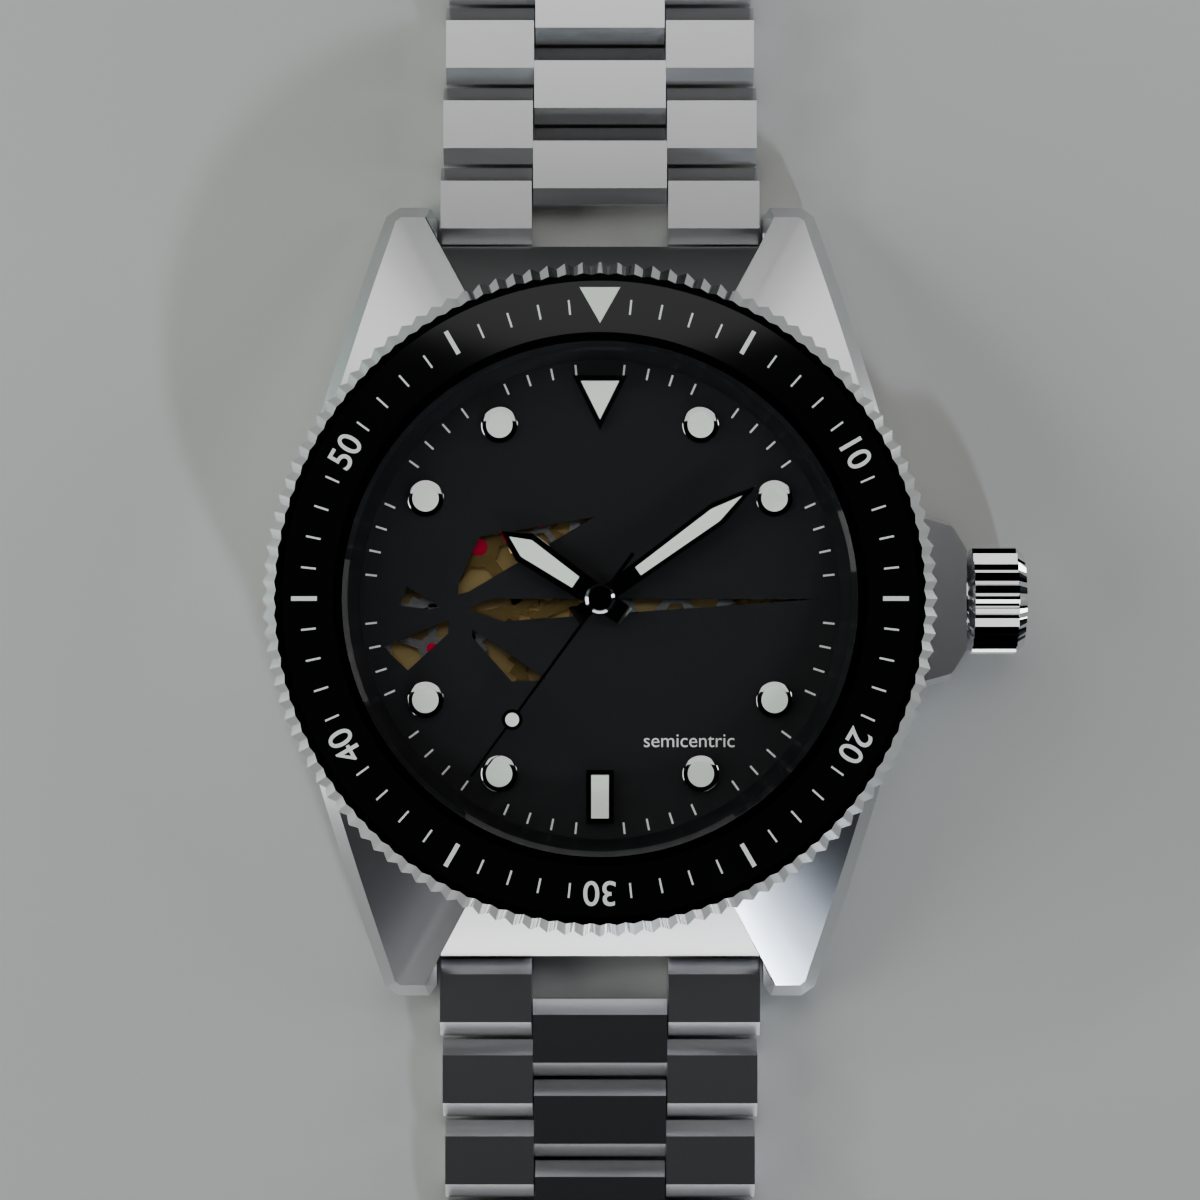
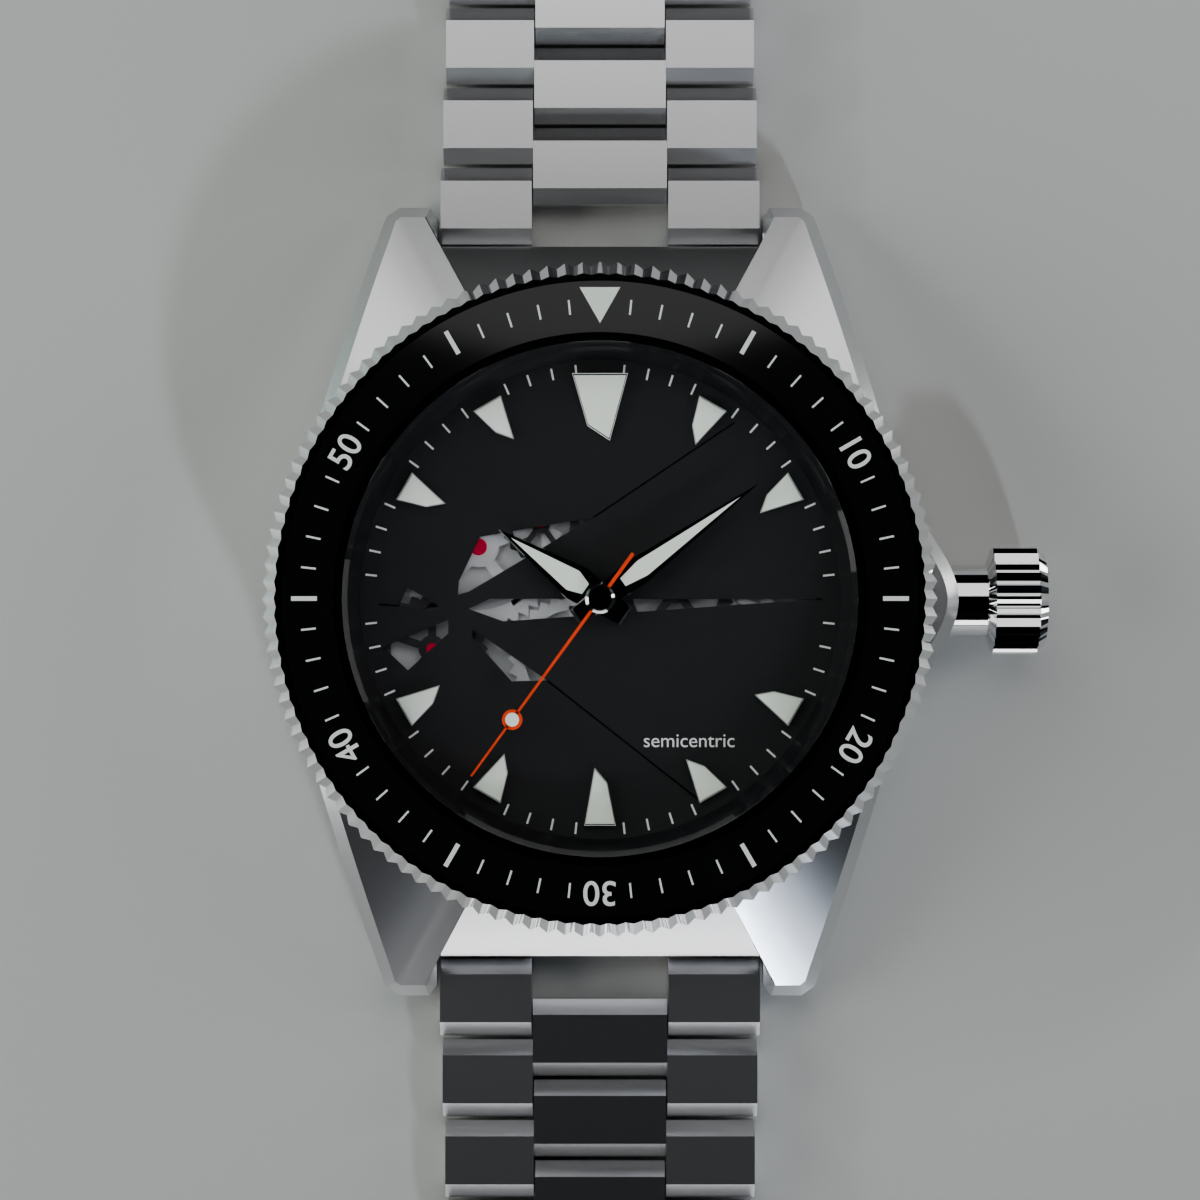
Refine diver: smooth crown guards, silver mechanism, shard markers and fracture lines
Claude-Session: https://claude.ai/code/session_01Rn55Cu3ygp9W8MxpQuqa8s

diff --git a/render/render.py b/render/render.py
@@ -143,17 +143,20 @@ def build_scene(samples, size):
         "lume": principled("lume", (0.82, 0.86, 0.78), 0.0, 0.7),
         "print": principled("print", (0.85, 0.85, 0.83), 0.0, 0.5),
         "glass": glass_material(),
-        "brass": principled("brass", (0.83, 0.61, 0.27), 1.0, 0.25),
-        "plate": brushed("plate", (0.78, 0.60, 0.30), 0.35, (40, 40, 40)),
+        "bright": principled("bright", (0.85, 0.85, 0.86), 0.5, 0.35),
+        "dark": principled("dark", (0.16, 0.16, 0.17), 1.0, 0.3),
+        "accent": principled("accent", (0.80, 0.07, 0.015), 0.0, 0.4),
+        "plate": principled("plate", (0.62, 0.62, 0.63), 0.0, 0.6),
         "ruby": principled("ruby", (0.55, 0.01, 0.05), 0.0, 0.1),
         "floor": principled("floor", (0.55, 0.55, 0.53), 0.0, 0.5),
     }
     assign = {
-        "case_mid": "brushed", "case_back": "satin", "crown_guard": "brushed", "crown": "polished",
+        "case_mid": "brushed", "case_back": "satin", "crown": "polished",
         "bezel": "polished", "insert": "insert", "insert_pip": "lume", "rehaut": "rehaut",
         "crystal": "glass", "dial": "dial", "cut_emblem": "polished", "print": "print",
         "marker_steel": "polished", "marker_lume": "lume", "hand_steel": "polished", "hand_lume": "lume",
-        "mov_plate": "plate", "mov_brass": "brass", "mov_steel": "satin", "mov_ruby": "ruby",
+        "mov_plate": "plate", "mov_bright": "bright", "mov_steel": "dark", "mov_ruby": "ruby",
+        "fracture": "polished", "hand_accent": "accent",
         "bracelet": "brushed", "bracelet_mid": "satin",
     }
 
